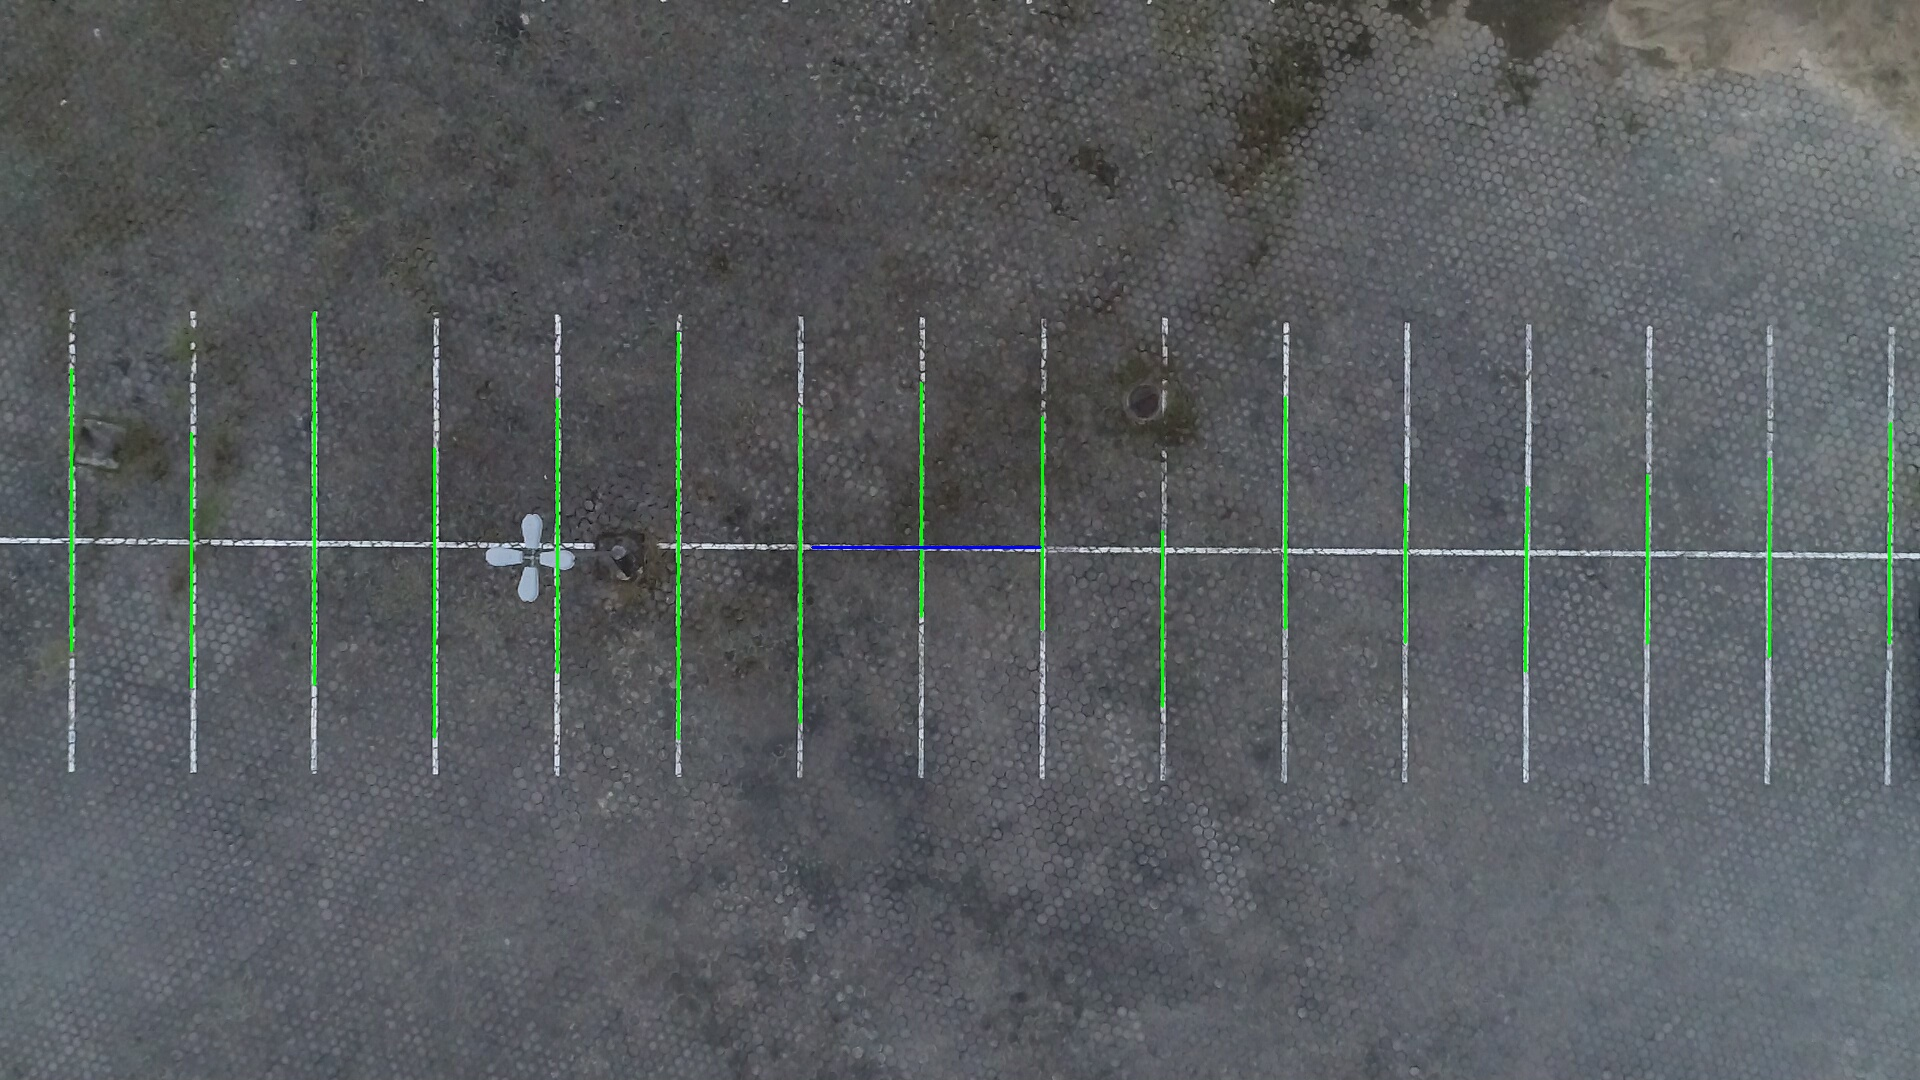
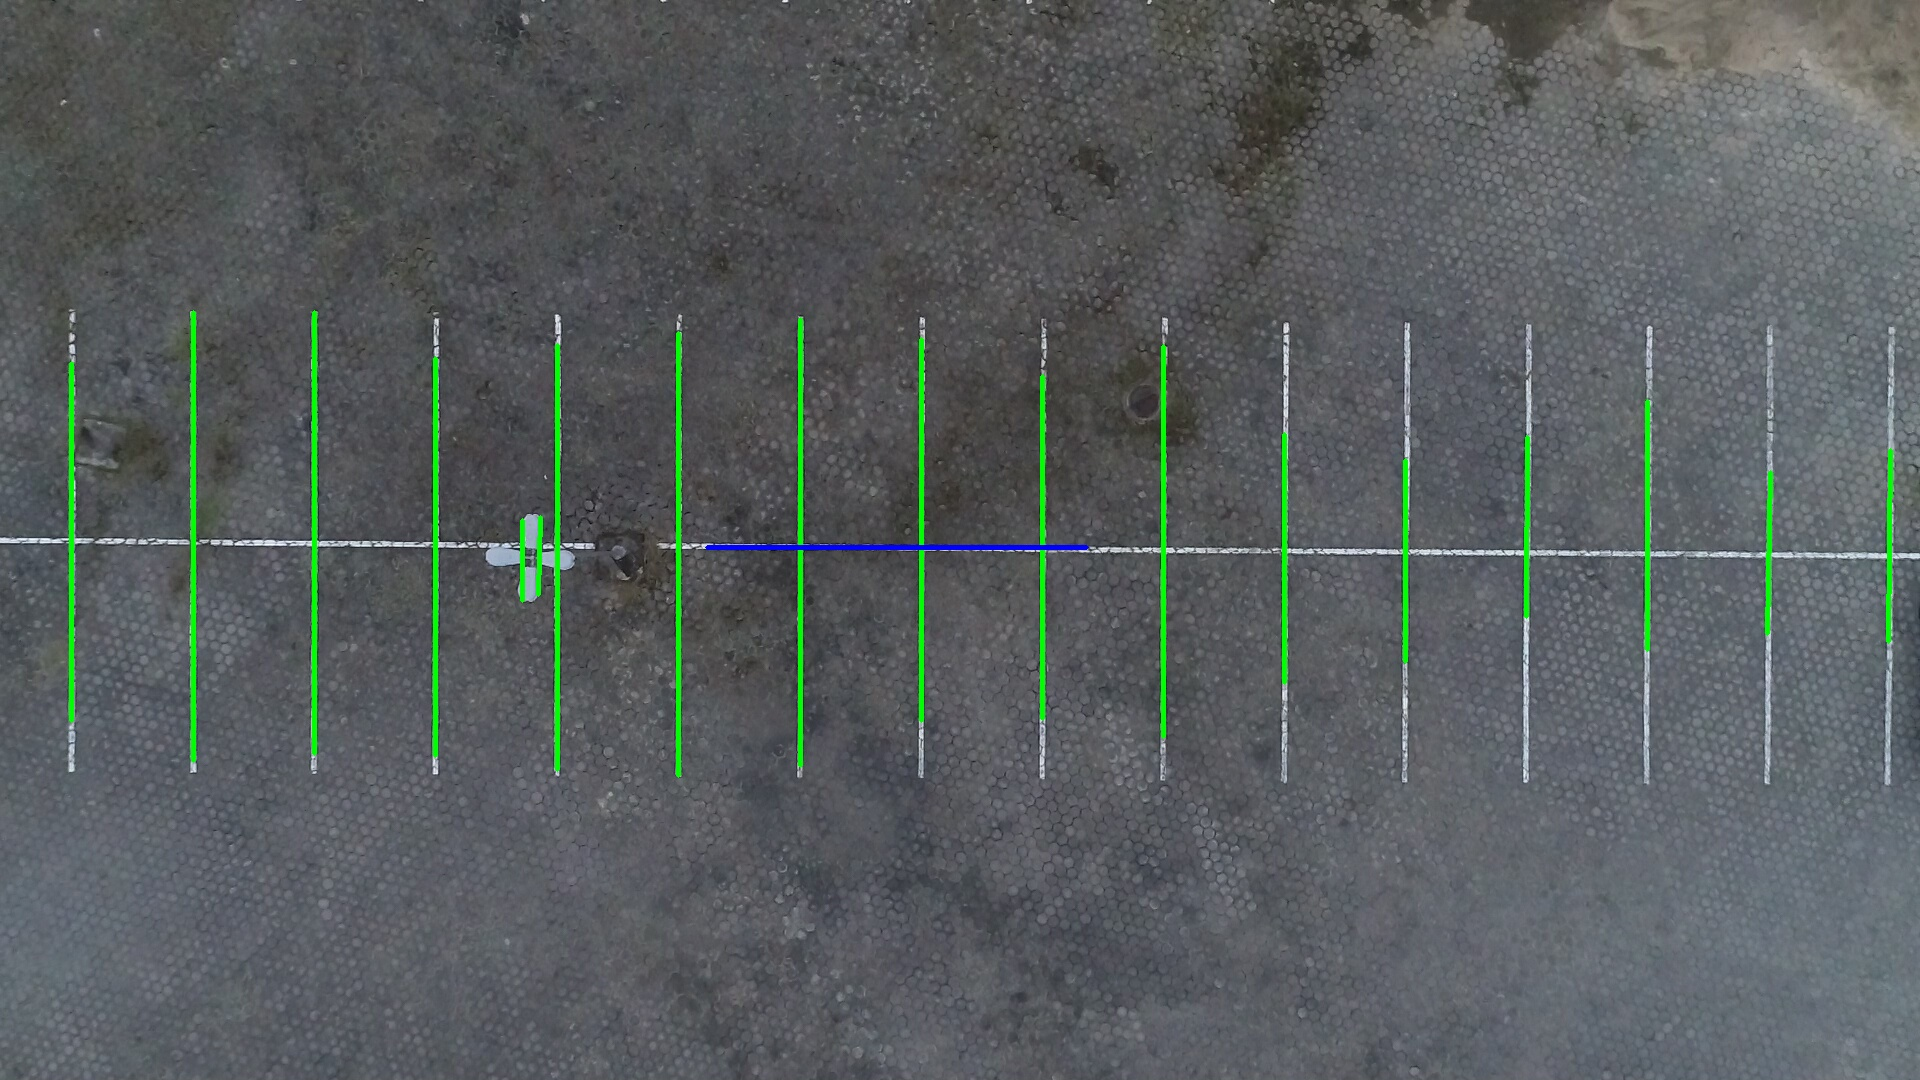
cod_prezentare

diff --git a/.github/start.py b/.github/start.py
@@ -2,220 +2,186 @@ import cv2
 import numpy as np
 import matplotlib.pyplot as plt
 
-
-# 🧩 Funcție pentru combinarea liniilor apropiate (aceeași marcaj)
-def merge_similar_lines(lines, orientation='vertical', threshold=20):
-    """
-    Combină liniile apropiate (care reprezintă același marcaj)
-    Args:
-        lines: listă de segmente [x1, y1, x2, y2]
-        orientation: 'vertical' sau 'horizontal'
-        threshold: distanța maximă (în pixeli) pentru a considera două linii identice
-    """
-    if not lines:
-        return []
-
-    merged = []
-    if orientation == 'vertical':
-        # Sortăm după poziția medie X
-        lines = sorted(lines, key=lambda l: (l[0] + l[2]) / 2)
-        group = [lines[0]]
-        for l in lines[1:]:
-            prev_x = np.mean([group[-1][0], group[-1][2]])
-            curr_x = np.mean([l[0], l[2]])
-            if abs(curr_x - prev_x) < threshold:
-                group.append(l)
-            else:
-                merged.append(np.mean(group, axis=0).astype(int).tolist())
-                group = [l]
-        merged.append(np.mean(group, axis=0).astype(int).tolist())
-
-    else:  # orizontale
-        lines = sorted(lines, key=lambda l: (l[1] + l[3]) / 2)
-        group = [lines[0]]
-        for l in lines[1:]:
-            prev_y = np.mean([group[-1][1], group[-1][3]])
-            curr_y = np.mean([l[1], l[3]])
-            if abs(curr_y - prev_y) < threshold:
-                group.append(l)
-            else:
-                merged.append(np.mean(group, axis=0).astype(int).tolist())
-                group = [l]
-        merged.append(np.mean(group, axis=0).astype(int).tolist())
-
-    return merged
-
-
-# 🅿 Funcția principală de detecție a liniilor
-def detect_parking_lines(image_path, display=True):
-    """
-    Detectează marcajele albe din imaginea de parcare
-
-    Args:
-        image_path: Calea către imagine
-        display: Dacă True, afișează rezultatele
-
-    Returns:
-        lines_dict: Dicționar cu liniile detectate (verticale/orizontale)
-        result_image: Imagine cu liniile desenate
-    """
-
-    # Citire imagine
+def count_parking_spots(image_path, display=True):
     image = cv2.imread(image_path)
     if image is None:
-        print(f"Eroare: Nu s-a putut încărca imaginea {image_path}")
-        return None, None
+        print("❌ Nu s-a putut încărca imaginea.")
+        return None
 
     original = image.copy()
+    h, w = image.shape[:2]
 
-    # Conversie la grayscale și blur
-    gray = cv2.cvtColor(image, cv2.COLOR_BGR2GRAY)
+    # 1⃣ Extindere ROI
+    crop_y1 = int(h * 0.20)
+    crop_y2 = int(h * 0.80)
+    cropped_image = image[crop_y1:crop_y2, :]
+   
+    # 2⃣ Segmentare Culoare (HSV)
+    hsv = cv2.cvtColor(cropped_image, cv2.COLOR_BGR2HSV)
+    lower_white = np.array([0, 0, 160])
+    upper_white = np.array([180, 60, 255])
+    color_mask = cv2.inRange(hsv, lower_white, upper_white)
+   
+    # 3⃣ Morfologie (Curățare)
+    kernel = cv2.getStructuringElement(cv2.MORPH_RECT, (3, 3))
+    mask = cv2.morphologyEx(color_mask, cv2.MORPH_CLOSE, kernel, iterations=2)
+    mask = cv2.morphologyEx(mask, cv2.MORPH_OPEN, kernel, iterations=1)
 
-    # filtrul gaussian ne ajuta sa eliminam detaliile inutile
-    blurred = cv2.GaussianBlur(gray, (5, 5), 0)
+    # 4⃣ Muchii Canny
+    edges = cv2.Canny(mask, 50, 150)
+   
+    # --- A. DETECTIA LINIILOR VERTICALE ---
+    # 5⃣ Linii Hough (Praguri Relaxate)
+    lines_v = cv2.HoughLinesP(edges, 1, np.pi / 180,
+                            threshold=30, minLineLength=30, maxLineGap=10)
 
-    # Detectarea marginilor folosind operatorul Canny
-    edges = cv2.Canny(blurred, 50, 200, apertureSize=3) # apertureSize indică dimensiunea kernel-ului pentru operatorul Sobel
-
-    # Detectare linii cu Hough Transform (parametri ajustați)
-    lines = cv2.HoughLinesP(
-        edges,
-        rho=1,
-        theta=np.pi / 180,
-        threshold=80,       # prag mai mare -> mai puține segmente
-        minLineLength=80,   # lungime minimă mai mare
-        maxLineGap=20       # unește segmente apropiate
-    )
-
-    result = original.copy()
+    # 6⃣ Filtrare și Grupare Linii Verticale
     vertical_lines = []
-    horizontal_lines = []
+    if lines_v is not None:
+        for (x1, y1, x2, y2) in lines_v[:, 0]:
+            angle_rad = np.arctan2(y2 - y1, x2 - x1)
+            angle = abs(np.degrees(angle_rad))
+           
+            if 75 < angle < 105:
+                vertical_lines.append((x1, y1, x2, y2))
+               
+    def merge_lines(lines, threshold=60):
+        if not lines: return []
+        lines = sorted(lines, key=lambda l: (l[0] + l[2]) / 2)
+        merged = [lines[0]]
+        for l in lines[1:]:
+            prev_x = np.mean([merged[-1][0], merged[-1][2]])
+            curr_x = np.mean([l[0], l[2]])
+            if abs(curr_x - prev_x) > threshold:
+                merged.append(l)
+        return merged
 
-    if lines is not None:
-        for line in lines:
-            x1, y1, x2, y2 = line[0]
-            angle = np.abs(np.degrees(np.arctan2(y2 - y1, x2 - x1)))
+    vertical_lines = merge_lines(vertical_lines, threshold=60)
+    vertical_lines = sorted(vertical_lines, key=lambda l: (l[0] + l[2]) / 2)
+   
+    # Numărul de locuri pe UN SINGUR RÂND
+    num_spots_one_row = max(len(vertical_lines) - 1, 0)
+   
+    # --- B. DETECTIA LINIEI ORIZONTALE CENTRALE ---
+    # Praguri mai relaxate pentru a detecta linia orizontală
+    lines_h = cv2.HoughLinesP(edges, 1, np.pi / 180,
+                            threshold=40, minLineLength=int(w * 0.5), maxLineGap=15)
+   
+    horizontal_line = None
+    if lines_h is not None:
+        for (x1, y1, x2, y2) in lines_h[:, 0]:
+            angle_rad = np.arctan2(y2 - y1, x2 - x1)
+            angle = abs(np.degrees(angle_rad))
+            line_length = np.sqrt((x2 - x1)**2 + (y2 - y1)**2)
+           
+            # Filtrare pentru linii aproape orizontale și suficient de lungi
+            if angle < 15 or angle > 165:
+                if horizontal_line is None or line_length > np.sqrt((horizontal_line[2] - horizontal_line[0])**2 + (horizontal_line[3] - horizontal_line[1])**2):
+                    horizontal_line = (x1, y1, x2, y2)
 
-            # Clasificare linie
-            if 80 <= angle <= 100:
-                vertical_lines.append(line[0])
-            elif angle <= 15 or angle >= 165:
-                horizontal_lines.append(line[0])
+    # 8⃣ Calculul Final - Presupunem întotdeauna 2 rânduri dacă avem linii verticale
+    # În majoritatea parcărilor cu acest tip de marcaj există 2 rânduri
+    if num_spots_one_row > 0:
+        if horizontal_line is not None:
+            num_spots_total = num_spots_one_row * 2
+            num_rows_detected = 2
+            print("   ✓ Linie orizontală detectată - confirmare 2 rânduri")
+        else:
+            # Dacă nu detectăm linia dar avem linii verticale, probabil sunt tot 2 rânduri
+            num_spots_total = num_spots_one_row * 2
+            num_rows_detected = 2
+            print("   ⚠ Linie orizontală NU detectată - se presupun 2 rânduri")
+    else:
+        num_spots_total = 0
+        num_rows_detected = 0
+       
+    # 9⃣ Desenare rezultate
+    result = original.copy()
+   
+    # Linii Verzi Verticale (segmente separate)
+    center_y_in_cropped = cropped_image.shape[0] // 2
+    line_segment_length = int(cropped_image.shape[0] * 0.7)
+    y_offset = line_segment_length // 2
+   
+    # Segmentul superior
+    start_y_upper = crop_y1 + center_y_in_cropped - y_offset
+    end_y_upper = crop_y1 + center_y_in_cropped
+    # Segmentul inferior
+    start_y_lower = crop_y1 + center_y_in_cropped
+    end_y_lower = crop_y1 + center_y_in_cropped + y_offset
 
-    # 🔹 Curățare linii duplicate / apropiate
-    vertical_lines = merge_similar_lines(vertical_lines, 'vertical', threshold=25)
-    horizontal_lines = merge_similar_lines(horizontal_lines, 'horizontal', threshold=25)
+    for (x1, y1, x2, y2) in vertical_lines:
+        line_x_pos = int(np.mean([x1, x2]))
+       
+        # Desenăm segmentul superior (VERDE)
+        cv2.line(result, (line_x_pos, start_y_upper), (line_x_pos, end_y_upper), (0, 255, 0), 3)
+        # Desenăm segmentul inferior (VERDE)
+        cv2.line(result, (line_x_pos, start_y_lower), (line_x_pos, end_y_lower), (0, 255, 0), 3)
 
-    # 🔹 Desenare pe imagine
-    for x1, y1, x2, y2 in vertical_lines:
-        cv2.line(result, (x1, y1), (x2, y2), (0, 255, 0), 2)  # verde - verticale
-    for x1, y1, x2, y2 in horizontal_lines:
-        cv2.line(result, (x1, y1), (x2, y2), (255, 0, 0), 2)  # roșu - orizontale
+    # Linia Orizontală Centrală (ALBASTRU în BGR)
+    if horizontal_line is not None:
+        (hx1, hy1, hx2, hy2) = horizontal_line
+        cv2.line(result, (hx1, hy1 + crop_y1), (hx2, hy2 + crop_y1), (255, 0, 0), 3)
 
-    # Afișare rezultate
+    # Marcăm locurile numerotate pentru ambele rânduri
+    if num_spots_one_row > 0:
+        y_ref_upper = crop_y1 + center_y_in_cropped - int(cropped_image.shape[0] * 0.25)
+        y_ref_lower = crop_y1 + center_y_in_cropped + int(cropped_image.shape[0] * 0.25)
+       
+        for i in range(len(vertical_lines) - 1):
+            x_curr = int(np.mean([vertical_lines[i][0], vertical_lines[i][2]]))
+            x_next = int(np.mean([vertical_lines[i + 1][0], vertical_lines[i + 1][2]]))
+            center_x = int((x_curr + x_next) / 2)
+           
+            # Numerotare Rând Superior (roșu)
+            cv2.putText(result, f"{i+1}", (center_x - 10, y_ref_upper),
+                        cv2.FONT_HERSHEY_SIMPLEX, 0.8, (0, 0, 255), 2)
+           
+            # Numerotare Rând Inferior (albastru)
+            cv2.putText(result, f"{num_spots_one_row + i+1}", (center_x - 10, y_ref_lower),
+                        cv2.FONT_HERSHEY_SIMPLEX, 0.8, (255, 0, 0), 2)
+
+    print("=" * 60)
+    print(f"📊 Imagine: {image_path}")
+    print(f"   ├─ Linii verticale detectate (Separatoare): {len(vertical_lines)}")
+    print(f"   ├─ Locuri pe un rând: {num_spots_one_row}")
+    print(f"   ├─ Rânduri de parcare detectate: {num_rows_detected}")
+    print(f"   └─ 🅿 Locuri estimate TOTAL: {num_spots_total}")
+    print("=" * 60)
+
     if display:
-        plt.figure(figsize=(15, 10))
+        plt.figure(figsize=(18, 10))
         plt.subplot(2, 3, 1)
         plt.imshow(cv2.cvtColor(original, cv2.COLOR_BGR2RGB))
-        plt.title('Imaginea Originală')
-        plt.axis('off')
-
+        plt.title("Imagine originală")
+        plt.axis("off")
+       
         plt.subplot(2, 3, 2)
-        plt.imshow(gray, cmap='gray')
-        plt.title('Grayscale')
-        plt.axis('off')
-
+        plt.imshow(color_mask, cmap="gray")
+        plt.title("Izolare Culoare (HSV)")
+        plt.axis("off")
+       
         plt.subplot(2, 3, 3)
-        plt.imshow(edges, cmap='gray')
-        plt.title('Detectare Margini (Canny)')
-        plt.axis('off')
+        plt.imshow(mask, cmap="gray")
+        plt.title("Binarizare & Curățare")
+        plt.axis("off")
 
         plt.subplot(2, 3, 4)
-        plt.imshow(cv2.cvtColor(result, cv2.COLOR_BGR2RGB))
-        plt.title(f'Linii Detectate\nVerticale: {len(vertical_lines)} | Orizontale: {len(horizontal_lines)}')
-        plt.axis('off')
-
+        plt.imshow(edges, cmap="gray")
+        plt.title("Muchii (Canny)")
+        plt.axis("off")
+       
         plt.subplot(2, 3, 5)
-        vert_img = original.copy()
-        for x1, y1, x2, y2 in vertical_lines:
-            cv2.line(vert_img, (x1, y1), (x2, y2), (0, 255, 0), 2)
-        plt.imshow(cv2.cvtColor(vert_img, cv2.COLOR_BGR2RGB))
-        plt.title(f'Linii Verticale ({len(vertical_lines)})')
-        plt.axis('off')
-
-        plt.subplot(2, 3, 6)
-        horiz_img = original.copy()
-        for x1, y1, x2, y2 in horizontal_lines:
-            cv2.line(horiz_img, (x1, y1), (x2, y2), (255, 0, 0), 2)
-        plt.imshow(cv2.cvtColor(horiz_img, cv2.COLOR_BGR2RGB))
-        plt.title(f'Linii Orizontale ({len(horizontal_lines)})')
-        plt.axis('off')
+        plt.imshow(cv2.cvtColor(result, cv2.COLOR_BGR2RGB))
+        plt.title(f"🅿 Locuri detectate: {num_spots_total} ({num_rows_detected} rând{'uri' if num_rows_detected > 1 else ''})")
+        plt.axis("off")
 
         plt.tight_layout()
         plt.show()
 
-    # Statistici
-    print(f"\n📊 Statistici pentru {image_path}:")
-    print(f"   ├─ Linii verticale detectate: {len(vertical_lines)}")
-    print(f"   ├─ Linii orizontale detectate: {len(horizontal_lines)}")
-    print(f"   └─ Total linii: {len(vertical_lines) + len(horizontal_lines)}")
-
-    return {
-        'vertical': vertical_lines,
-        'horizontal': horizontal_lines,
-        'all': lines
-    }, result
+    return num_spots_total, result
 
 
-
-def detect_parking_spots(image_path):
-    """
-    Detectează locurile de parcare bazat pe intersecțiile liniilor
-    """
-    lines_dict, result = detect_parking_lines(image_path, display=False)
-
-    if lines_dict is None:
-        return None
-
-    vertical_lines = lines_dict['vertical']
-    horizontal_lines = lines_dict['horizontal']
-
-    # Sortare linii verticale după coordonata x
-    vertical_lines_sorted = sorted(vertical_lines, key=lambda l: (l[0] + l[2]) / 2)
-
-    # Calculare număr locuri de parcare
-    num_parking_spots = len(vertical_lines_sorted) - 1 if len(vertical_lines_sorted) > 1 else 0
-
-    print(f"\n🅿  Locuri de parcare detectate: {num_parking_spots}")
-
-    return num_parking_spots
-
-
-# Utilizare
 if __name__ == "__main__":
-    # Detectare pentru prima imagine (fără mașini)
-    print("=" * 60)
-    print("IMAGINE 1 - Parcare goală")
-    print("=" * 60)
-    lines1, result1 = detect_parking_lines('parcare_libera1.jpg')
-    spots1 = detect_parking_spots('parcare_libera1.jpg')
-    """""
-    print("\n" + "=" * 60)
-    print("IMAGINE 2 - Parcare cu mașini")
-    print("=" * 60)
-    lines2, result2 = detect_parking_lines('parking_occupied.jpg')
-    spots2 = detect_parking_spots('parking_occupied.jpg')
-    """
-    # Salvare rezultate
-    if result1 is not None:
-        cv2.imwrite('parking_empty_detected.jpg', result1)
-        print("\n✅ Rezultat salvat: parking_empty_detected.jpg")
-    """""
-    if result2 is not None:
-        cv2.imwrite('parking_occupied_detected.jpg', result2)
-        print("✅ Rezultat salvat: parking_occupied_detected.jpg")"""
-
-
-
-
-
+    image_path = "parcare1.jpg"
+    count_parking_spots(image_path)
